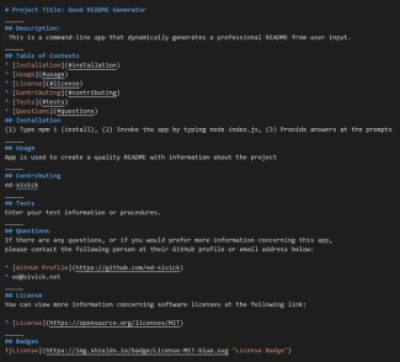
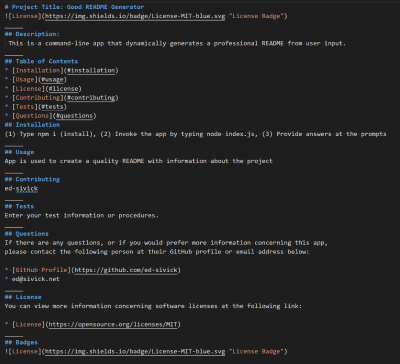
update files and images for license badge location

Changed region(s): [[0.0, 0.0, 0.99, 0.6989], [0.0, 0.8812, 0.72, 1.0], [0.0, 0.7293, 0.78, 0.8508]]

diff --git a/utils/generateMarkdown.js b/utils/generateMarkdown.js
@@ -3,6 +3,7 @@ function generateMarkdown(data) {
   const readmeData =
   `
 # Project Title: ${data.title}
+![License](https://img.shields.io/badge/License-${data.license}-blue.svg "License Badge")
 _____
 ## Description:
  ${data.description}

diff --git a/README.md b/README.md
@@ -14,6 +14,7 @@ ___
 Below is a Summary output for the app using user-defined responses to create a **newReadme** file:
 
 # Project Title: Good README Generator
+![License](https://img.shields.io/badge/License-MIT-blue.svg "License Badge")
 _____
 ## Description:
  This is a command-line app that dynamically generates a professional README from user input.
@@ -45,13 +46,12 @@ please contact the following person at their GitHub profile or email address bel
 * ed@sivick.net
 _____
 ## License
-You can view more information concerning software licenses at the following link for **Open Source Initiative**:
+You can view more information concerning software licenses at the following link:
 
 * [License](https://opensource.org/licenses/MIT)
 _____
 ## Badges
 ![License](https://img.shields.io/badge/License-MIT-blue.svg "License Badge")
-
 ___
 ## Application Links and Images  
 **Links:**

diff --git a/newReadme.md b/newReadme.md
@@ -1,5 +1,6 @@
 
 # Project Title: Good README Generator
+![License](https://img.shields.io/badge/License-MIT-blue.svg "License Badge")
 _____
 ## Description:
  This is a command-line app that dynamically generates a professional README from user input.
